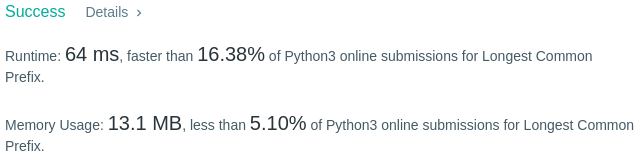
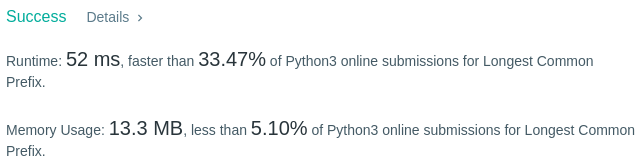
Modify the solution

diff --git a/014-Longest-Common-Prefix/Longest-Common-Prefix.py b/014-Longest-Common-Prefix/Longest-Common-Prefix.py
@@ -1,54 +1,29 @@
 class Solution:
     def longestCommonPrefix(self, strs):      
-        n = 0
-        
-        if len(strs) == 0 or strs[0] == "":
+        # 若為空集合或有空元素返回" "
+        if (len(strs) == 0) or ("" in strs):
             return ""
-        
+        # 若只有單一元素返回本身
         elif len(strs) == 1:
-            return strs[0]
-        
-        elif "" in strs:
-            return ""
-        
-        elif len(strs) == 2:
-            ps = strs[0]
-            low = min(len(strs[0]),len(strs[1]))
-            while (n <= low) and (min(len(strs[0]),len(strs[1]))!=0) :
-                for i in range(0, min(len(strs[0]),len(strs[1]))):
-                    if (i != 0) and (n == 0):
-                        break
-                    if (strs[0].find(strs[1][i]) >= 0) and (strs[0].find(strs[1][i]) == strs[1].index(strs[1][i])):
-                        #print(i)
-                        n +=1
-                        strs[0] = strs[0].replace(strs[0][0],"",1)
-                        strs[1] = strs[1].replace(strs[1][0],"",1)
-                        break
-                if (n == 0) or ("" in strs) or (strs[0][0] != strs[1][0]):
-                    break
-            if n==0:
-                ps=""
-            return ps[:n]
-        
-        elif len(strs)>2:            
-            ps = strs[0]        
-            while (n % (len(strs)-1) ==0) and (min(len(strs[0]),len(strs[1]))!=0):
+            return strs[0]       
+        # 兩兩比對第一個字母，比對完後若為相同，刪除第一個字母
+        else:            
+            ps = ""
+            while True :                
                 for i in range(0, len(strs)-1):
-                    if (strs[i].find(strs[i+1][0]) >= 0) and (strs[i].find(strs[i+1][0]) == strs[i+1].index(strs[i+1][0])):
-                        n +=1
+            
+                    if strs[i][0] == strs[i+1][0]:
                         strs[i] = strs[i].replace(strs[i][0],"",1)
                         if (i+2) == len(strs):
+                            ps += strs[i+1][0]
                             strs[i+1] = strs[i+1].replace(strs[i+1][0],"",1)
-                if (n == 0) or ("" in strs) or (strs[0][0] != strs[1][0]):
-                    break
 
-            if (n % 2 != 0) and (len(strs)%3==0):
-                n-=1
-            if n==0:
-                ps=""
-            return ps[:n//(len(strs)-1)]
-    
+                    else:                        
+                        return ps
+                    
+                if "" in strs:
+                            return ps
     
 if __name__ == "__main__":
     s = Solution
-    print(s.longestCommonPrefix(s,["flower","flow","flight"]))
+    print(s.longestCommonPrefix(s,["a","a","a"]))
